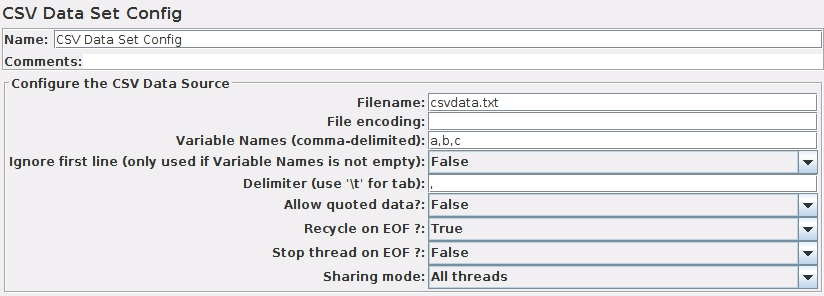
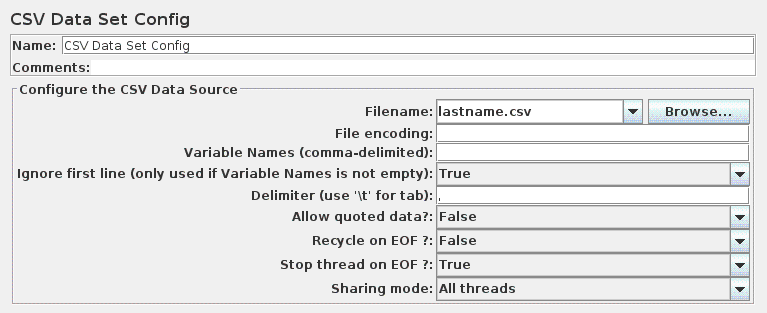
This closes #309 - CSV data set config : Add browser button to Filename field
git-svn-id: https://svn.apache.org/repos/asf/jmeter/trunk@1808587 13f79535-47bb-0310-9956-ffa450edef68

Former-commit-id: 8adee158cc736507d9195241eb53e3ac980317d1

Changed region(s): [[0.0, 0.0, 1.0, 1.0]]

diff --git a/src/components/org/apache/jmeter/config/CSVDataSetBeanInfo.java b/src/components/org/apache/jmeter/config/CSVDataSetBeanInfo.java
@@ -21,6 +21,7 @@ package org.apache.jmeter.config;
 import java.beans.PropertyDescriptor;
 
 import org.apache.jmeter.testbeans.BeanInfoSupport;
+import org.apache.jmeter.testbeans.gui.FileEditor;
 import org.apache.jmeter.testbeans.gui.TypeEditor;
 
 public class CSVDataSetBeanInfo extends BeanInfoSupport {
@@ -61,6 +62,7 @@ public class CSVDataSetBeanInfo extends BeanInfoSupport {
         p.setValue(NOT_UNDEFINED, Boolean.TRUE);
         p.setValue(DEFAULT, "");        //$NON-NLS-1$
         p.setValue(NOT_EXPRESSION, Boolean.TRUE);
+        p.setPropertyEditorClass(FileEditor.class);
 
         p = property(FILE_ENCODING);
         p.setValue(NOT_UNDEFINED, Boolean.TRUE);
